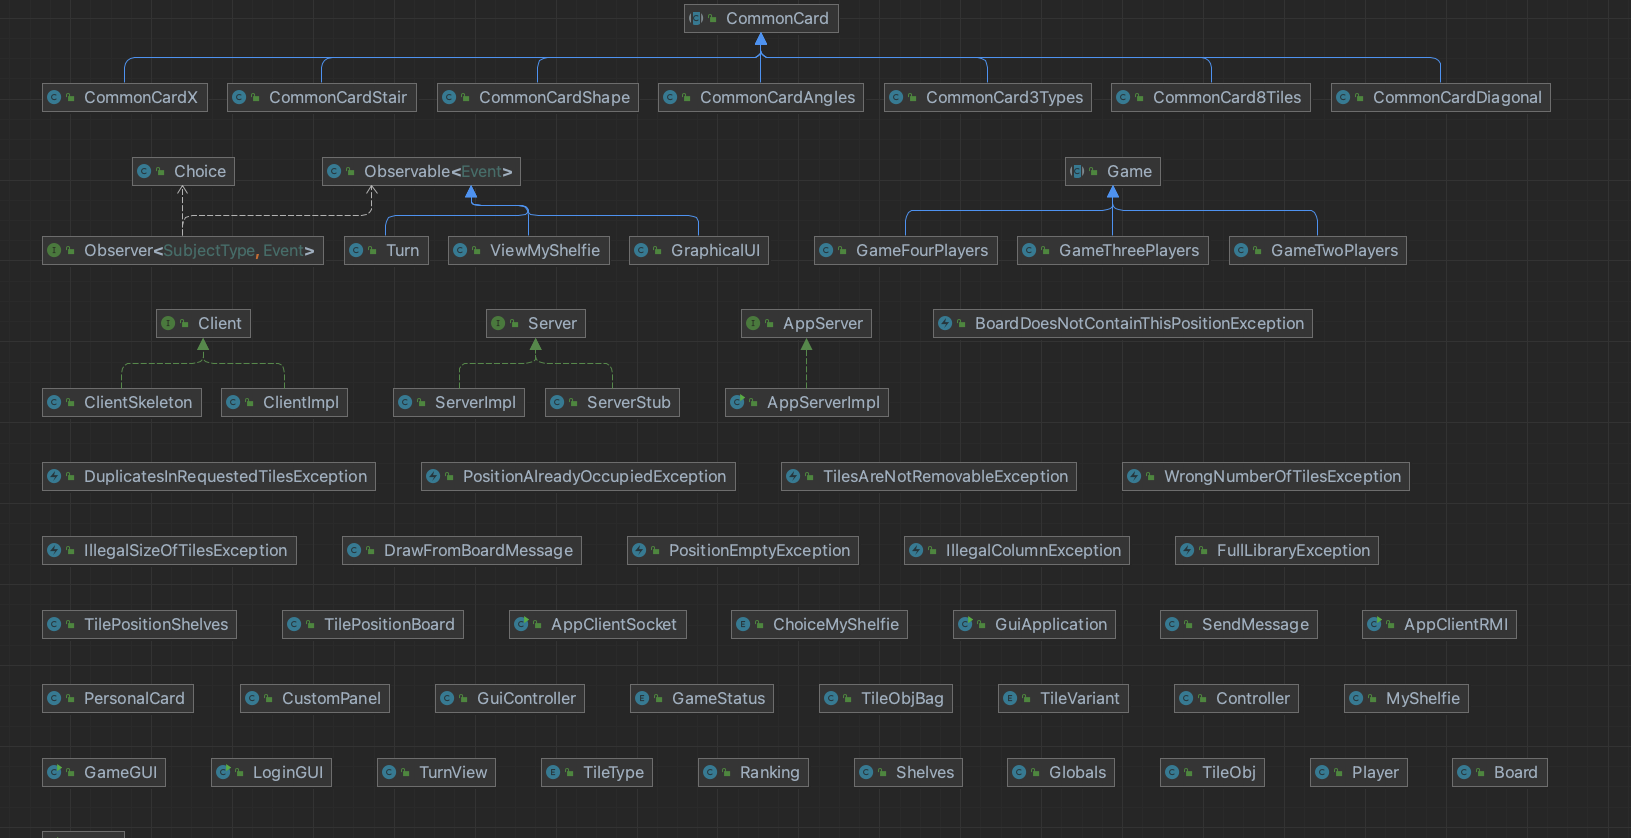
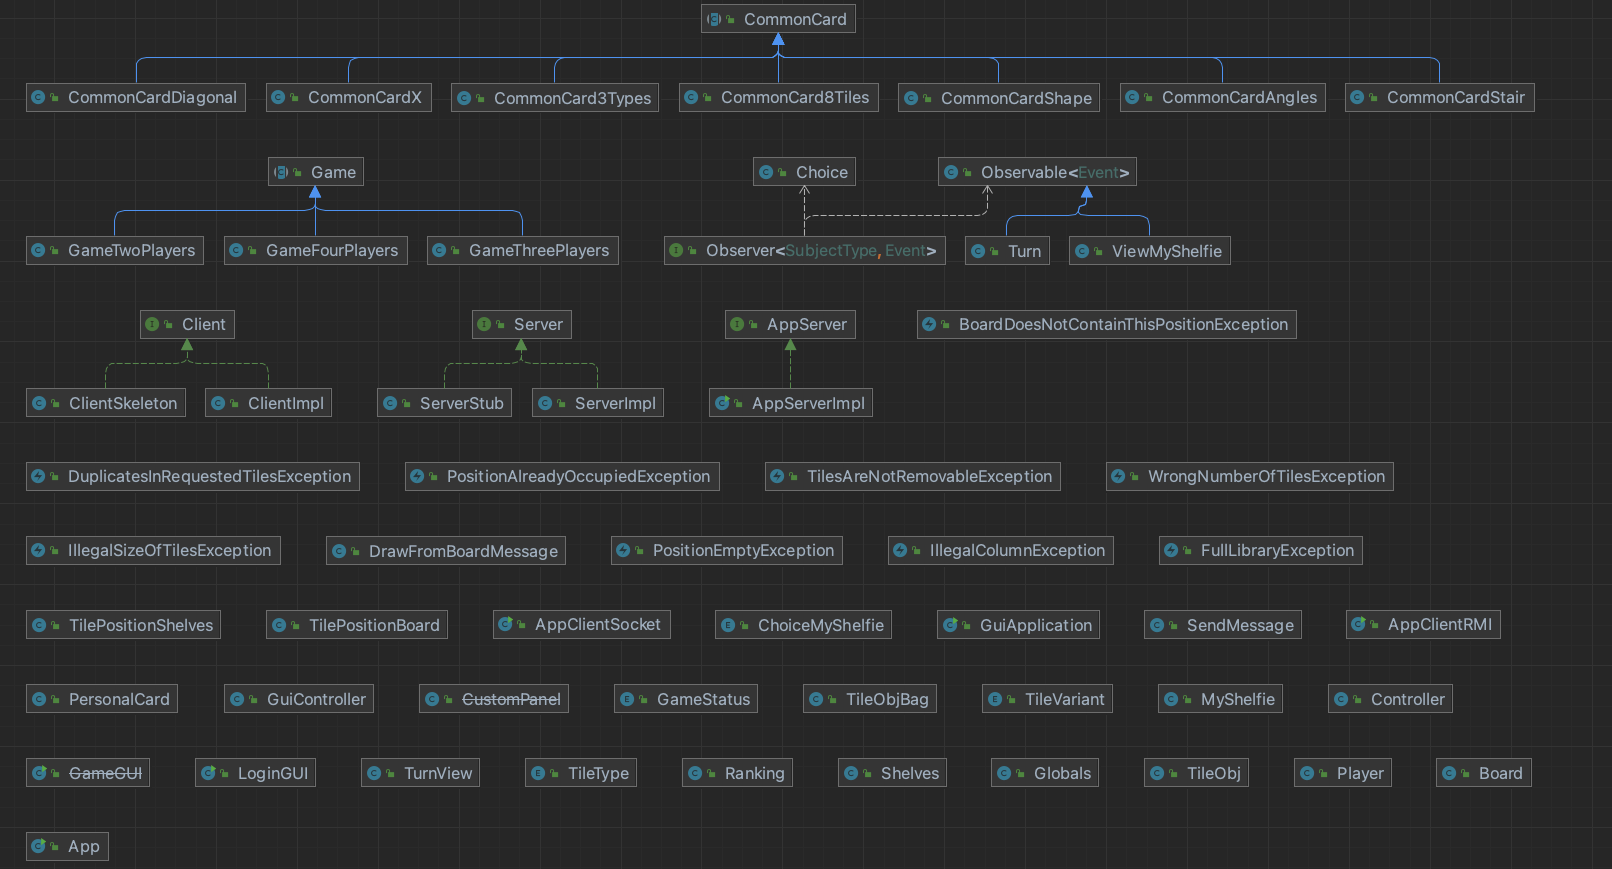
final end

diff --git a/src/main/java/org/project/ingsw2023PaganiniTommasiRussoPorfiri/view/SwingUI/GameGUI.java b/src/main/java/org/project/ingsw2023PaganiniTommasiRussoPorfiri/view/SwingUI/GameGUI.java
@@ -2,10 +2,12 @@ package org.project.ingsw2023PaganiniTommasiRussoPorfiri.view.SwingUI;
 
 import org.project.ingsw2023PaganiniTommasiRussoPorfiri.view.SwingUI.custom.*;
 import org.project.ingsw2023PaganiniTommasiRussoPorfiri.view.SwingUI.custom.CustomPanel;
-
 import javax.swing.*;
 import java.awt.*;
 
+//Classe deprecata rappresentante una bozza iniziale di una GUI di gioco in Swing
+//Deciso di ricominciare da zero e implementarla altrove, completamente in JavaFX
+@Deprecated
 public class GameGUI extends JFrame {
     private CustomPanel board;
     private CustomPanel myShelf;
@@ -26,7 +28,7 @@ public class GameGUI extends JFrame {
         setDefaultCloseOperation(JFrame.DISPOSE_ON_CLOSE);
         setLayout(new GridBagLayout());
 
-        // Crea un oggetto GridBagConstraints per impostare le proprietà di posizionamento dei componenti
+        //Creazione di un oggetto GridBagConstraints per impostare le proprietà di posizionamento dei componenti
         GridBagConstraints constraints = new GridBagConstraints();
 
 
@@ -66,7 +68,6 @@ public class GameGUI extends JFrame {
         controlPanel.setPreferredSize(new Dimension(400, 400));
         add(controlPanel);
 
-
         /*
         myShelf.setVisible(true);
         imageLabel2 = new JLabel(new ImageIcon(getClass().getResource("/boards/bookshelf.png")));
@@ -75,38 +76,36 @@ public class GameGUI extends JFrame {
         add(myShelf);
        */
 
-
-
         constraints.gridx = 0;
         constraints.gridy = 0;
         constraints.gridwidth = 2;
         constraints.gridheight = 2;
-        constraints.fill = GridBagConstraints.BOTH; // Il pannello si espande sia in larghezza che in altezza
-        constraints.weightx = 1.0; // Il pannello occupa tutto lo spazio disponibile in larghezza
-        constraints.weighty = 1.0; // Il pannello occupa tutto lo spazio disponibile in altezza
+        constraints.fill = GridBagConstraints.BOTH; //Il pannello si espande sia in larghezza che in altezza
+        constraints.weightx = 1.0; //Il pannello occupa tutto lo spazio disponibile in larghezza
+        constraints.weighty = 1.0; //Il pannello occupa tutto lo spazio disponibile in altezza
         add(board, constraints);
 
-        // Imposta la posizione e le dimensioni del pannello "controlPanel"
+        //Impostazione della posizione e delle dimensioni del pannello "controlPanel"
         constraints.gridx = 0;
         constraints.gridy = 2;
         constraints.gridwidth = 2;
         constraints.gridheight = 1;
         constraints.fill = GridBagConstraints.BOTH;
         constraints.weightx = 1.0;
-        constraints.weighty = 0.0; // Il pannello non si espande in altezza
+        constraints.weighty = 0.0; //Il pannello non si espande in altezza
         add(controlPanel, constraints);
 
-        // Imposta la posizione e le dimensioni del pannello "commonCards"
+        //Impostazione della posizione e delle dimensioni del pannello "commonCards"
         constraints.gridx = 2;
         constraints.gridy = 0;
         constraints.gridwidth = 1;
         constraints.gridheight = 2;
         constraints.fill = GridBagConstraints.BOTH;
-        constraints.weightx = 0.0; // Il pannello non si espande in larghezza
+        constraints.weightx = 0.0; //Il pannello non si espande in larghezza
         constraints.weighty = 1.0;
         add(commonCards, constraints);
 
-        // Imposta la posizione e le dimensioni del pannello "myShelf"
+        //Impostazione della posizione e delle dimensioni del pannello "myShelf"
         constraints.gridx = 0;
         constraints.gridy = 3;
         constraints.gridwidth = 1;
@@ -116,7 +115,7 @@ public class GameGUI extends JFrame {
         constraints.weighty = 0.0;
         add(myShelf, constraints);
 
-        // Imposta la posizione e le dimensioni del pannello "personalCard"
+        //Impostazione della posizione e delle dimensioni del pannello "personalCard"
         constraints.gridx = 1;
         constraints.gridy = 3;
         constraints.gridwidth = 1;
@@ -125,7 +124,6 @@ public class GameGUI extends JFrame {
         constraints.weightx = 1.0;
         constraints.weighty = 0.0;
         add(personalCard, constraints);
-
 
         /*
         imageLabel1.addComponentListener(new ComponentAdapter() {
@@ -137,11 +135,10 @@ public class GameGUI extends JFrame {
         }); */
 
 
-
-        // Imposta il layout manager del pannello "controlPanel" come FlowLayout
+        //Impostazione del layout manager del pannello "controlPanel" come FlowLayout
         controlPanel.setLayout(new FlowLayout());
 
-        // Aggiungi i componenti desiderati al pannello "controlPanel"
+        //Aggiunta dei componenti desiderati al pannello "controlPanel"
         JButton button1 = new JButton("Button 1");
         JButton button2 = new JButton("Button 2");
         ImageIcon titleImage = new ImageIcon(getClass().getResource("/GraphicResources/misc/base_pagina2.jpg"));
@@ -150,36 +147,36 @@ public class GameGUI extends JFrame {
         controlPanel.add(button2);
         controlPanel.add(textField);
 
-        // Imposta il layout manager del pannello "controlPanel" come GridLayout con 2 colonne e 3 righe
+        //Impostazione del layout manager del pannello "controlPanel" come GridLayout con 2 colonne e 3 righe
         controlPanel.setLayout(new GridLayout(3, 2, 10, 10));
 
-        // Crea i bottoni con icone e testo desiderati
-        button1.setIcon(new ImageIcon("withdraw.png")); // Sostituisci "withdraw.png" con il percorso dell'icona per il prelievo dalla board
+        // Creazione dei bottoni con icone e testo desiderati
+        button1.setIcon(new ImageIcon("withdraw.png"));
         button1.setText("Draw from Board and insert into Shelf");
 
-        button2.setIcon(new ImageIcon("withdraw.png")); // Sostituisci "withdraw.png" con il percorso dell'icona per il prelievo dalla board
+        button2.setIcon(new ImageIcon("withdraw.png"));
         button2.setText("Insert into Shelf");
 
         JButton button3 = new JButton();
-        button3.setIcon(new ImageIcon("personal.png")); // Sostituisci "personal.png" con il percorso dell'icona per la verifica dell'obiettivo personale
+        button3.setIcon(new ImageIcon("personal.png"));
         button3.setText("Verify the Personal Card");
 
         JButton button4 = new JButton();
-        button4.setIcon(new ImageIcon("common.png")); // Sostituisci "common.png" con il percorso dell'icona per la verifica degli obiettivi comuni
+        button4.setIcon(new ImageIcon("common.png"));
         button4.setText("Verify the Common Cards");
 
         JButton button5 = new JButton();
-        button5.setIcon(new ImageIcon("others.png")); // Sostituisci "others.png" con il percorso dell'icona per la visualizzazione delle librerie degli altri giocatori
+        button5.setIcon(new ImageIcon("others.png"));
         button5.setText("Show other players's libraries");
 
-        // Aggiungi i bottoni al pannello "controlPanel"
+
         controlPanel.add(button1);
         controlPanel.add(button2);
         controlPanel.add(button3);
         controlPanel.add(button4);
         controlPanel.add(button5);
 
-        // Imposta la posizione e le dimensioni del pannello "controlPanel"
+        //Impostazione della posizione e delle dimensioni del pannello "controlPanel"
         constraints.gridx = 0;
         constraints.gridy = 2;
         constraints.gridwidth = 2;
@@ -189,8 +186,8 @@ public class GameGUI extends JFrame {
         constraints.weighty = 0.0;
         add(controlPanel, constraints);
 
-        // Imposta la posizione e le dimensioni degli altri pannelli come desiderato
 
+        //Impostazione della posizione e delle dimensioni degli altri pannelli
         pack();
         setLocationRelativeTo(null);
         setVisible(true);
@@ -243,13 +240,6 @@ public class GameGUI extends JFrame {
         Image scaledImage = originalImage.getScaledInstance(newWidth, newHeight, Image.SCALE_SMOOTH);
         return new ImageIcon(scaledImage);
     }
-
-
-
-
-
-    //non richiamabile in una classe che estende jframe, ma solo in una che estende jcomponent
-
 
 
  /*

diff --git a/src/main/java/org/project/ingsw2023PaganiniTommasiRussoPorfiri/view/SwingUI/LoginGUI.java b/src/main/java/org/project/ingsw2023PaganiniTommasiRussoPorfiri/view/SwingUI/LoginGUI.java
@@ -2,12 +2,10 @@ package org.project.ingsw2023PaganiniTommasiRussoPorfiri.view.SwingUI;
 
 import org.project.ingsw2023PaganiniTommasiRussoPorfiri.model.*;
 import org.project.ingsw2023PaganiniTommasiRussoPorfiri.model.Choice;
-import org.project.ingsw2023PaganiniTommasiRussoPorfiri.view.GraphicalUI;
 import org.project.ingsw2023PaganiniTommasiRussoPorfiri.view.TextualUI.*;
 import javax.imageio.ImageIO;
 import javax.swing.*;
 import java.awt.*;
-import java.awt.event.ActionListener;
 import java.awt.event.ComponentAdapter;
 import java.awt.event.ComponentEvent;
 import java.awt.image.BufferedImage;
@@ -21,9 +19,8 @@ public class LoginGUI extends JFrame {
     public JTextField playerNumberField = new JTextField();
     public JLabel imageContainer = new JLabel();
     public JLabel titleLabel = new JLabel();
-
-
     ViewMyShelfie viewMyShelfie;
+
     public LoginGUI() {
         setResizable(false);
         setSize(1280, 720);
@@ -33,21 +30,21 @@ public class LoginGUI extends JFrame {
         joinGameButton.setForeground(Color.WHITE); // Testo bianco
         joinGameButton.setFont(new Font("Arial", Font.BOLD, 14));
 
-        // Impostazione delle dimensioni dei componenti in proporzione alla finestra principale
+        //Dimensioni finestra principale (Il JFrame LoginGUI)
         int frameWidth = 1280;
         int frameHeight = 720;
 
-// Calcola le dimensioni dei componenti in base alla proporzione della finestra principale
-        int joinGameButtonWidth = (int) (frameWidth * 0.2);  // 20% della larghezza del frame
-        int joinGameButtonHeight = (int) (frameHeight * 0.1);  // 10% dell'altezza del frame
+        //Calcolo delle dimensioni dei componenti in base alla proporzione della finestra principale
+        int joinGameButtonWidth = (int) (frameWidth * 0.2);  //20% della larghezza del frame
+        int joinGameButtonHeight = (int) (frameHeight * 0.1);  //10% dell'altezza del frame
 
-        int textFieldWidth = (int) (frameWidth * 0.2);  // 20% della larghezza del frame
-        int textFieldHeight = (int) (frameHeight * 0.05);  // 5% dell'altezza del frame
+        int textFieldWidth = (int) (frameWidth * 0.2);
+        int textFieldHeight = (int) (frameHeight * 0.05);
 
-        int titleLabelWidth = (int) (frameWidth * 0.5);  // 50% della larghezza del frame
-        int titleLabelHeight = (int) (frameHeight * 0.2);  // 20% dell'altezza del frame
+        int titleLabelWidth = (int) (frameWidth * 0.5);
+        int titleLabelHeight = (int) (frameHeight * 0.2);
 
-// Imposta le dimensioni dei componenti
+        //Impostazione delle dimensioni dei componenti
         joinGameButton.setPreferredSize(new Dimension(joinGameButtonWidth, joinGameButtonHeight));
         usernameField.setPreferredSize(new Dimension(textFieldWidth, textFieldHeight));
         playerNumberField.setPreferredSize(new Dimension(textFieldWidth, textFieldHeight));
@@ -160,21 +157,21 @@ public class LoginGUI extends JFrame {
         joinGameButton.setForeground(Color.WHITE);
         joinGameButton.setFont(new Font("Arial", Font.BOLD, 14));
 
-        // Impostazione delle dimensioni dei componenti in proporzione alla finestra principale
+        //Impostazione delle dimensioni dei componenti in proporzione alla finestra principale
         int frameWidth = 1280;
         int frameHeight = 720;
 
-// Calcola le dimensioni dei componenti in base alla proporzione della finestra principale
-        int joinGameButtonWidth = (int) (frameWidth * 0.2);  // 20% della larghezza del frame
-        int joinGameButtonHeight = (int) (frameHeight * 0.1);  // 10% dell'altezza del frame
+        //Calcolo delle dimensioni dei componenti in base alla proporzione della finestra principale
+        int joinGameButtonWidth = (int) (frameWidth * 0.2);
+        int joinGameButtonHeight = (int) (frameHeight * 0.1);
 
-        int textFieldWidth = (int) (frameWidth * 0.2);  // 20% della larghezza del frame
-        int textFieldHeight = (int) (frameHeight * 0.05);  // 5% dell'altezza del frame
+        int textFieldWidth = (int) (frameWidth * 0.2);
+        int textFieldHeight = (int) (frameHeight * 0.05);
 
-        int titleLabelWidth = (int) (frameWidth * 0.5);  // 50% della larghezza del frame
-        int titleLabelHeight = (int) (frameHeight * 0.2);  // 20% dell'altezza del frame
+        int titleLabelWidth = (int) (frameWidth * 0.5);
+        int titleLabelHeight = (int) (frameHeight * 0.2);
 
-// Imposta le dimensioni dei componenti
+        //Impostazione delle dimensioni dei componenti
         joinGameButton.setPreferredSize(new Dimension(joinGameButtonWidth, joinGameButtonHeight));
         usernameField.setPreferredSize(new Dimension(textFieldWidth, textFieldHeight));
         playerNumberField.setPreferredSize(new Dimension(textFieldWidth, textFieldHeight));
@@ -187,7 +184,7 @@ public class LoginGUI extends JFrame {
             if (username.isEmpty() || playerNumber.isEmpty()) {
                 JOptionPane.showMessageDialog(this, "Please fill all the fields", "Error", JOptionPane.ERROR_MESSAGE);
             }
-             else {
+            else {
                 try {
                     int playerNumberInt = Integer.parseInt(playerNumber);
                     if (playerNumberInt < 2 || playerNumberInt > 4) {

diff --git a/src/main/java/org/project/ingsw2023PaganiniTommasiRussoPorfiri/model/Game.java b/src/main/java/org/project/ingsw2023PaganiniTommasiRussoPorfiri/model/Game.java
@@ -21,24 +21,8 @@ public abstract class Game implements Serializable {
         return fullLibrary;
     }
 
-    public boolean isEnded() {
-        return hasEnded;
-    }
-
-    public void setHasEnded(boolean hasEnded) {
-        this.hasEnded = hasEnded;
-    }
-
-    public int getFirstFullLibPlayerId() {
-        return firstFullLibPlayerId;
-    }
-
-    public void setFirstFullLibPlayerId(int firstFullLibPlayerId) {
-        this.firstFullLibPlayerId = firstFullLibPlayerId;
-    }
 
     private int firstFullLibPlayerId;
-    private boolean hasEnded;
     private Player currentPlayer;
     private int currentGameId;
     private Board board;

diff --git a/src/main/java/org/project/ingsw2023PaganiniTommasiRussoPorfiri/distributed/ClientImpl.java b/src/main/java/org/project/ingsw2023PaganiniTommasiRussoPorfiri/distributed/ClientImpl.java
@@ -1,8 +1,6 @@
 package org.project.ingsw2023PaganiniTommasiRussoPorfiri.distributed;
 
 import org.project.ingsw2023PaganiniTommasiRussoPorfiri.model.*;
-import org.project.ingsw2023PaganiniTommasiRussoPorfiri.view.GraphicalUI;
-import org.project.ingsw2023PaganiniTommasiRussoPorfiri.view.SwingUI.LoginGUI;
 import org.project.ingsw2023PaganiniTommasiRussoPorfiri.view.TextualUI.ViewMyShelfie;
 
 import java.rmi.RemoteException;

diff --git a/src/main/java/org/project/ingsw2023PaganiniTommasiRussoPorfiri/GuiController.java b/src/main/java/org/project/ingsw2023PaganiniTommasiRussoPorfiri/GuiController.java
@@ -1021,7 +1021,7 @@ public class GuiController {
             }
 
         }catch (Exception e){
-            //index out og bound e vengono inizializzati meno di 4 giocatori
+            //index out of bound e vengono inizializzati meno di 4 giocatori
             e.printStackTrace();
         }
 

diff --git a/src/main/java/org/project/ingsw2023PaganiniTommasiRussoPorfiri/view/SwingUI/custom/CustomPanel.java b/src/main/java/org/project/ingsw2023PaganiniTommasiRussoPorfiri/view/SwingUI/custom/CustomPanel.java
@@ -3,6 +3,7 @@ package org.project.ingsw2023PaganiniTommasiRussoPorfiri.view.SwingUI.custom;
 import javax.swing.*;
 import java.awt.*;
 
+@Deprecated
 public class CustomPanel extends JPanel {
 
     private ImageIcon imageIcon;

diff --git a/README.md b/README.md
@@ -16,10 +16,10 @@ We have adopted the Model-View-Controller (MVC) pattern for code organization. <
 
 ---
 
-# Sommario
+# Summary
 
-- [Sommario](#sommario)
-- [UML & Documentation](#UML-e-Documentazione)
+- [Sommario](#Summary)
+- [UML & Documentation](#uml-and-documentation)
 - - [Sequence Diagram](#Sequence-Diagram)
 - [Implemented functionalities](#implemented-functionalities)
 - - [Game specific](#game-specific)
@@ -30,13 +30,14 @@ We have adopted the Model-View-Controller (MVC) pattern for code organization. <
 - [Technology stack](#technology-stack)
 - [Required dependencies](#required-dependencies)
 - [Setup](#setup)
+- [Compile and packaging](#compile-and-packaging)
 - [GamePlay](#gameplay)
 - -[Graphical User Interface](#graphical-interface-guide)
 - -[Examples](#examples)
 - [Implemented Functionalities](#implemented-functionalities)
 - [Contributors](#contributors)
 
-## UML e Documentazione
+## UML and Documentation
 <br>
 
 ![Connection diagram 1.png](deliveries%2Fdocumentation%2Fuml%2FDetailed%2FConnection%20diagram%201.png)
@@ -116,10 +117,10 @@ $ git clone https://github.com/AlessioTommasi-polimi/ing-sw-2023-paganini-tommas
 $ cd ./ing-sw-2023-paganini-tommasi-russo-porfiri
 ```
 
-## Compilazione e packaging
-I jar sono stati realizzati con l'ausilio di Maven Shade Plugin.
-Di seguito sono forniti i jar precompilati.
-Per compilare i jar autonomamente, posizionarsi nella root del progetto e lanciare il comando:
+## Compile and packaging
+The jars were made with the help of Maven Shade Plugin.
+Below are the precompiled jars.
+To compile the jars independently, position yourself in the root of the project and launch the command:
 ```bash
 $ mvn clean package
 ```
